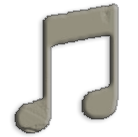
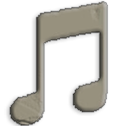
%

Changed region(s): [[0.0476, 0.0, 0.881, 1.0]]

diff --git a/index.html b/index.html
@@ -419,20 +419,22 @@ label {
 
 #play-button {
   position: fixed;
-  top: 10px;
-  left: 10px;
+  top: 0.5%;
+  left: 0.5%;
   cursor: var(--cursor-button);
   z-index: 9999
 }
 
 #play-icon {
-  width: 40px;
+  width: clamp(48px, 2.5vmax, 256px);
+  height: clamp(48px, 2.5vmax, 256px);
   opacity: .40;
   cursor: var(--cursor-button);
 }
 
 #playing-icon {
-  width: 40px;
+  width: clamp(48px, 2.5vmax, 256px);
+  height: clamp(48px, 2.5vmax, 256px);
   opacity: .25;
   animation: rotate 2s linear infinite;
   cursor: var(--cursor-button);
@@ -501,11 +503,11 @@ label {
 
 #Settings {
   position: absolute;
-  top: 10px;
+  top: 0.5%;
+  right: 0.5%;
   cursor: var(--cursor-button);
-  right: 10px;
-  width: 40px;
-  height: 40px;
+  width: clamp(48px, 2.5vmax, 256px);
+  height: clamp(48px, 2.5vmax, 256px);
   opacity: 0.35;
   z-index: 9999;
 
